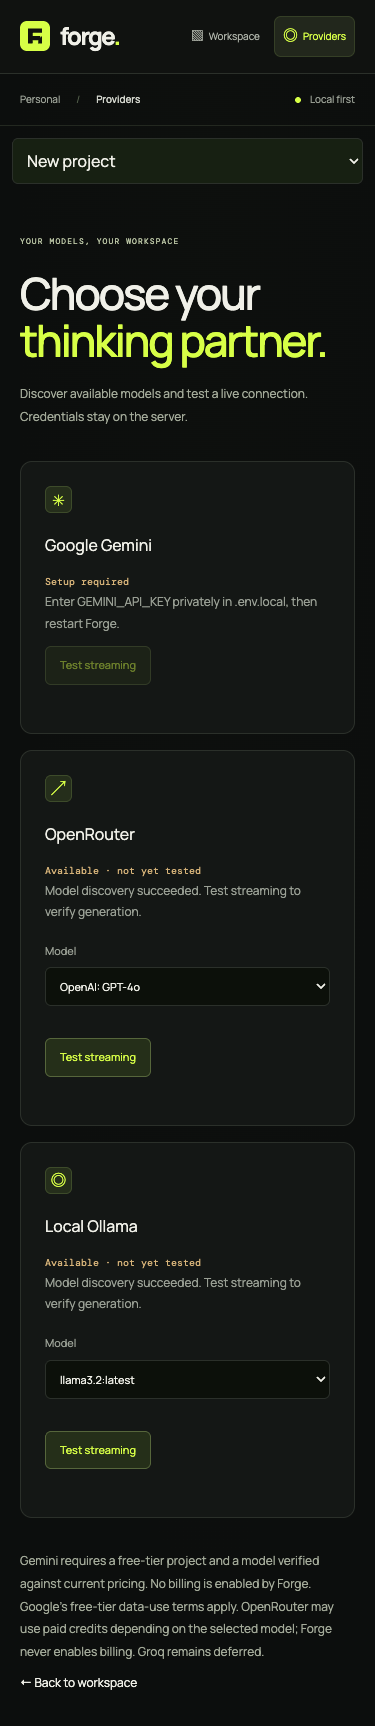
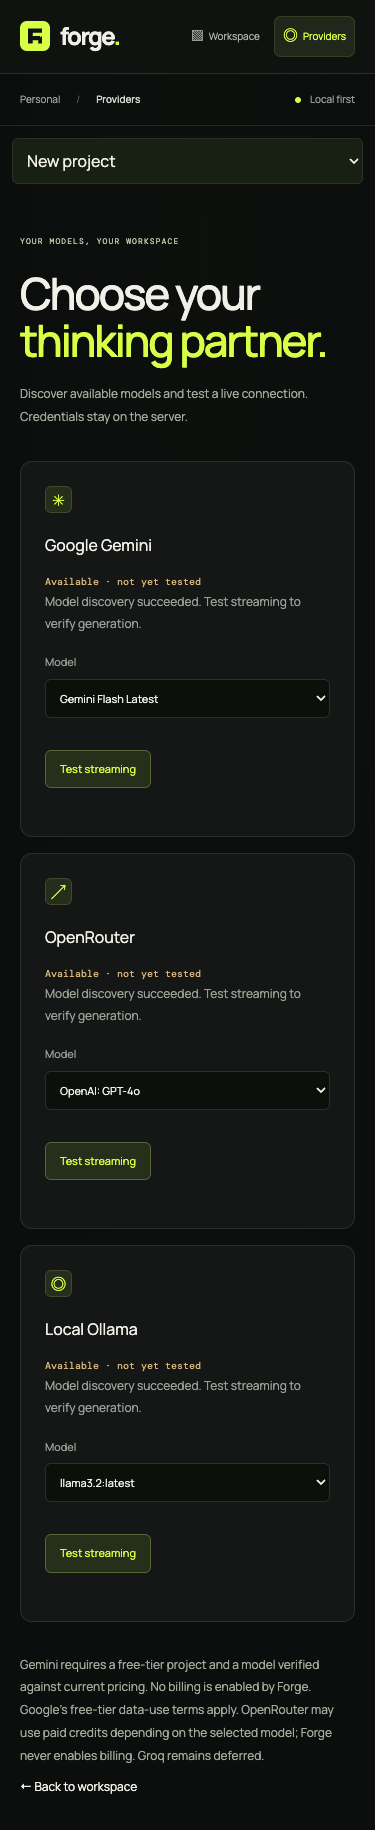
chore: record private Gemini client setup

diff --git a/docs/reports/milestone-4-providers.md b/docs/reports/milestone-4-providers.md
@@ -15,7 +15,17 @@ Gemini and Ollama share provider/model/request/event contracts. Groq and OpenRou
 - .env.local remains ignored; all three provider credential variable names are absent from generated client JavaScript. No real provider key was read, logged, shown, or created. Error tests use synthetic sentinel values and confirm sanitized messages. No screenshots contain credentials.
 - Complete implementation/configuration/documentation diff reviewed; git diff --check passed. npm dependency audit reports zero known vulnerabilities.
 
-## Limitations and user setup
-Gemini is implemented and fixture-tested but not live-tested: GEMINI_API_KEY is not configured. Google AI Studio was previously paused at terms acceptance. User-controlled authentication and explicit confirmation before key creation are still required; the user must enter the secret privately in .env.local, choose a discovered free-tier model, confirm eligibility, and restart Forge. Free-tier pricing/availability is account- and model-dependent; model discovery does not prove it. No billing, purchase, paid fallback, publishing, or pushing occurred.
+## Limitations at the original milestone
+Gemini was implemented and fixture-tested but not live-tested because `GEMINI_API_KEY` had not yet been configured. Google AI Studio was paused at terms acceptance. Free-tier pricing and availability remained account- and model-dependent; model discovery alone could not prove eligibility. No billing, purchase, paid fallback, publishing, or pushing occurred.
 
 Groq and OpenRouter setup is deliberately deferred. The project generator, database, sandbox, and restore are not part of this commit. Historical foundation screenshots were preserved.
+
+## Live Gemini setup update — 2026-09-09
+
+The user supplied and authorized a Gemini key for the Forge project. Forge now stores it only in ignored, mode-600 `.env.local`, pins `gemini-flash-latest`, and enables the explicit Gemini-use gate. Authenticated discovery succeeded and returned the configured model with a 65,536-token output limit. The production interface lists Gemini as available and selects that exact model; all other discovered Gemini models remain disabled by the configured-model allowlist.
+
+The first adapter and UI streaming checks reached Google but returned HTTP 429 `RESOURCE_EXHAUSTED`: the project's prepayment credits are depleted. This is an account billing state rather than an implementation or authentication failure. Full Gemini generation remains blocked until credit is added in Google AI Studio. Ollama remains the working offline generation path.
+
+The supplied API-key screenshot is preserved at `.private/evidence/gemini-api-key-details.png`. The directory is ignored by Git and both the screenshot and `.env.local` use owner-only file permissions. No credential or key screenshot is present in tracked files.
+
+After configuration, `npm run verify` passed lint, type checking, all 48 unit/contract/security tests, and the production build. The browser suite passed 9 tests with three optional real-workflow tests skipped, including responsive provider views at 375, 768, and 1440 pixels. The production provider UI was also inspected directly and showed Gemini Flash Latest selected before reporting the sanitized quota message from its live streaming control.
